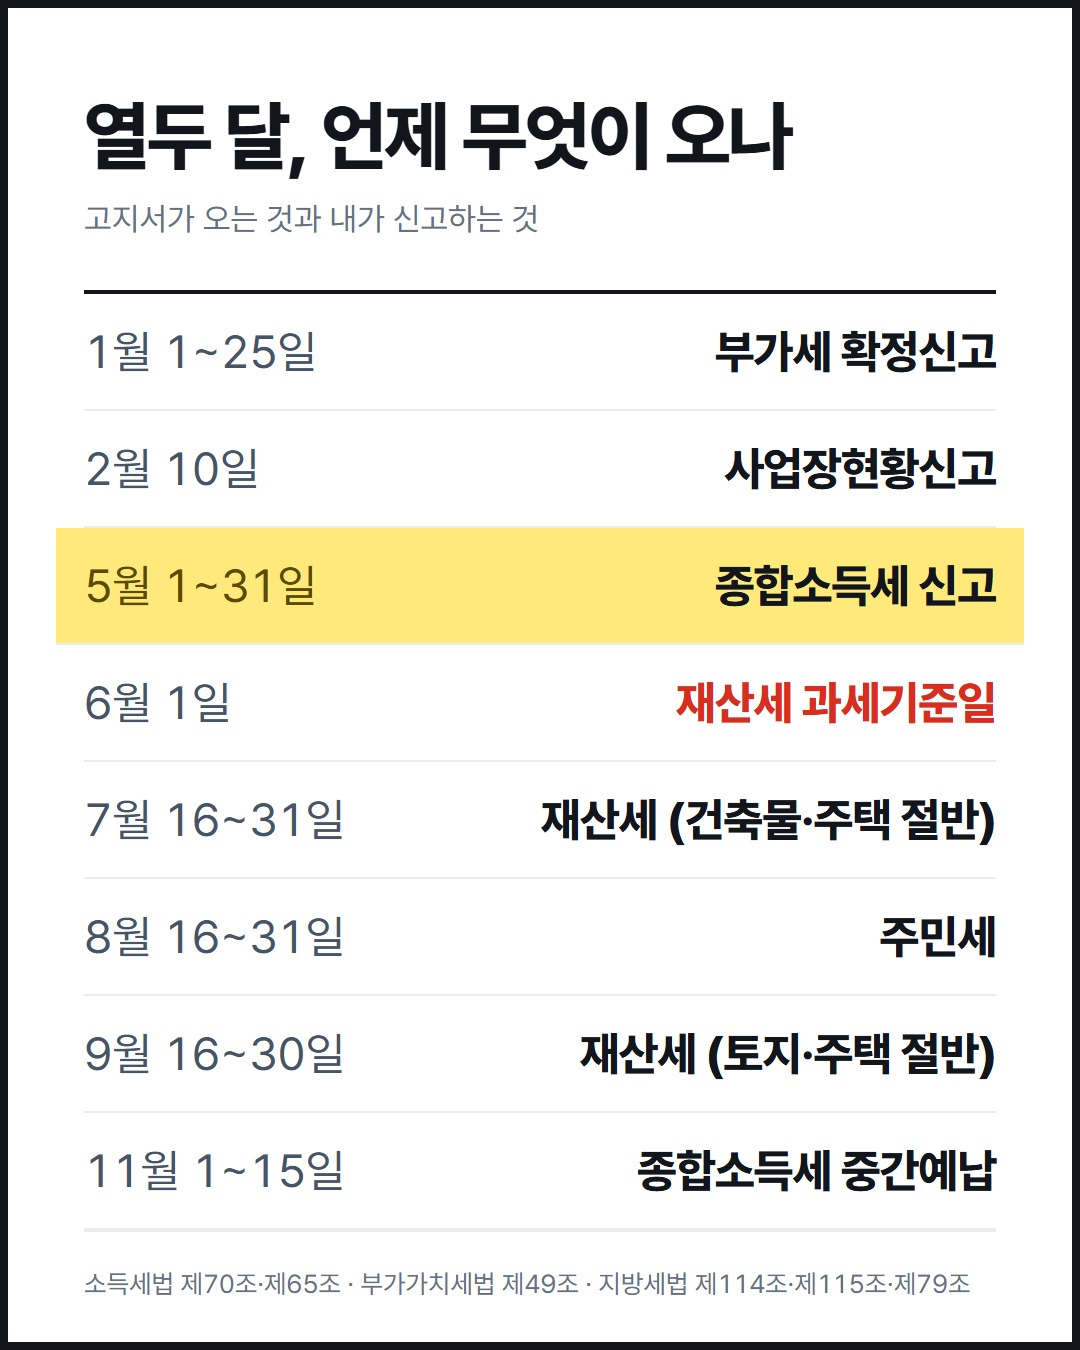
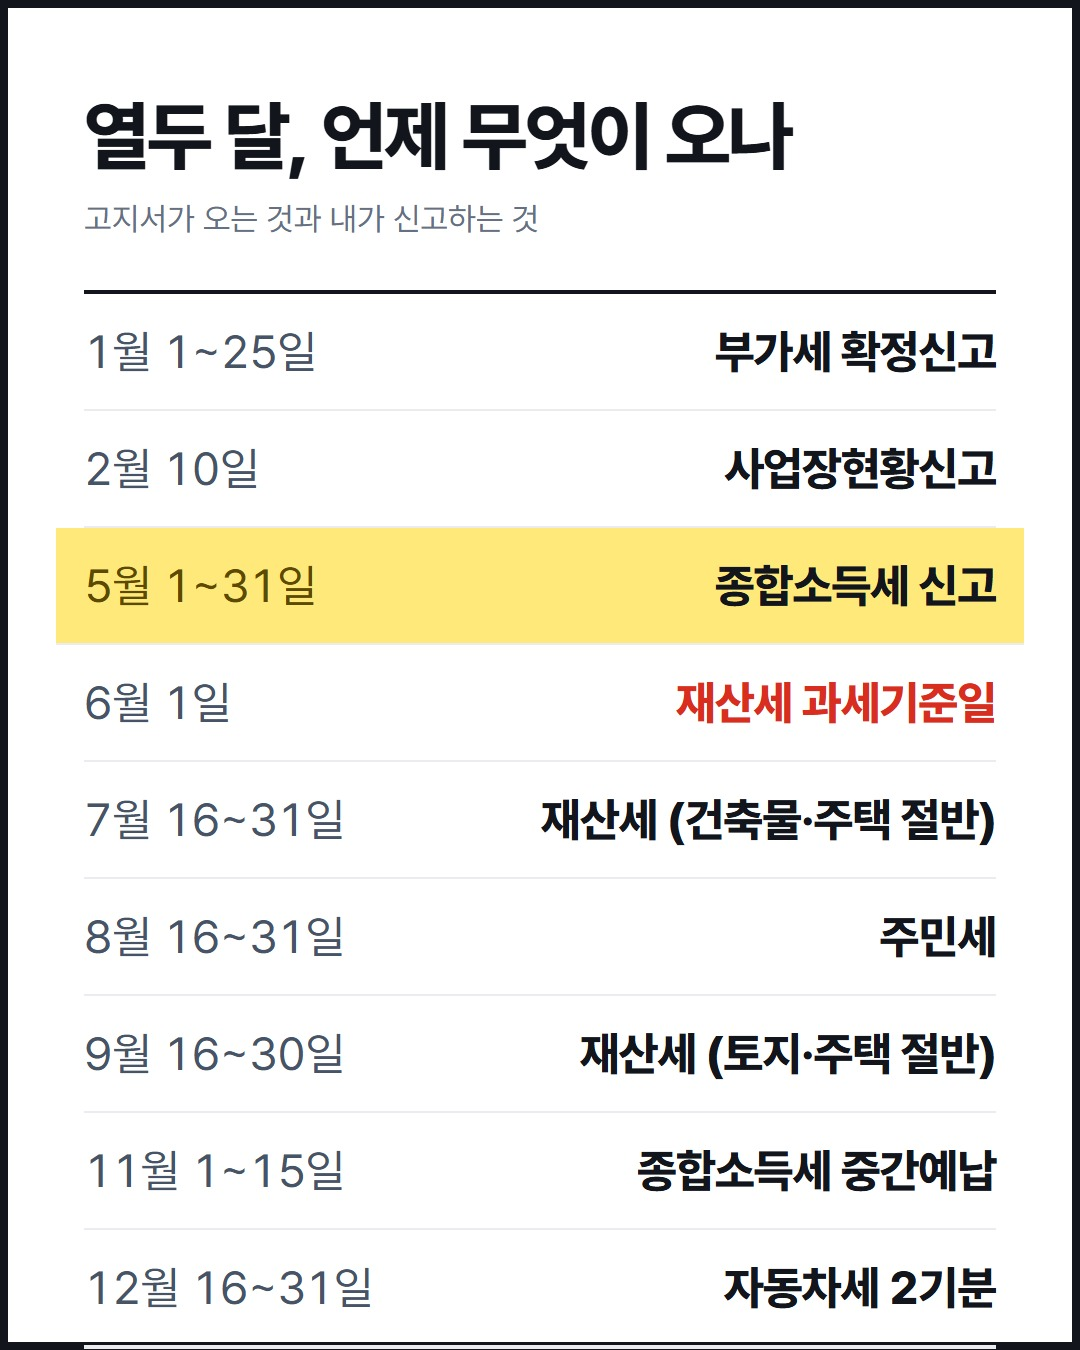
fix: 법령 표는 이미지의 alt 에 들어 있었다 — 자동차세·재산세 전부 확인
이 저장소가 계속 막혀 온 지점이 뚫렸다. 국가법령정보센터가 표를
이미지로 싣는 것은 맞는데, **img 의 alt 에 표 내용이 그대로 들어
있다.** 부가세 때 "표(이미지 alt)" 라고 적어 둔 적이 있으면서도
지방세에서는 못 읽는다고 판단했다.

다만 alt 만 모으면 어느 표가 어느 조문 것인지 알 수 없다. 세율표를
잘못 붙이는 것이 가장 비싼 실수라, DOM 을 훑어 각 img 앞의 가장
가까운 조문 제목을 붙여 확인한 뒤에만 옮겼다.

  제128조(납기와 징수방법)  제1기분 6/16~6/30 · 제2기분 12/16~12/31
  제111조(세율)             주택 · 종합합산토지 · 별도합산토지
  제111조의2                1세대 1주택 세율 특례

그래서 어제 비워 둔 자동차세 칸을 채웠다. 비워 둔 판단 자체는
옳았다 — 확인 못 한 것을 상식으로 채우지 않았고, 채운 근거는
상식이 아니라 원문이다.

테스트를 뒤집되 근거를 묶었다. 본납기 항목은 조문 표기에 "(표)" 가
있어야 통과한다. 상식으로 채운 값과 alt 에서 읽은 값을 코드가
구분하지 못하면 다음 사람이 똑같이 상식으로 채운다.

재산세 쪽도 함께 확인했다. 시행령 제109조는 텍스트라 그대로 읽힌다.
  공정시장가액비율  토지·건축물 70% · 주택 60%
                   2026년 1세대1주택 43% / 44% / 45%
  과세표준 상한    직전연도 × 105%          제110조 ③ · 시행령 109조의2
  세부담 상한      150% — 다만 주택은 제외   제122조 (2023 개정)

079 가 23:30 에 "원문에서 못 봤으면 적지 않는다" 로 이미 나갔다.
당시엔 사실이었다. 덮지 않고 080 으로 이어 쓴다 — 못 찾았다고
올린 표를 찾은 이야기다.

Changed region(s): [[0.0611, 0.9333, 0.9472, 1.0]]

diff --git a/src/lib/__tests__/tax-calendar.test.ts b/src/lib/__tests__/tax-calendar.test.ts
@@ -54,17 +54,29 @@ describe("달력 항목은 전부 근거를 가진다", () => {
 });
 
 describe("확인하지 못한 것은 달력에 없다", () => {
-  it("자동차세 본납기(6월·12월)를 넣지 않았다", () => {
-    // 제128조 제1항의 기분 표를 원문에서 읽지 못했다. 상식으로 채우면
-    // 이 저장소가 파는 것이 무너진다.
-    const vehicle = byDomain("vehicle");
-    for (const e of vehicle) expect(e.article).toContain("단서");
-    expect(vehicle.every((e) => e.month === 3 || e.month === 9)).toBe(true);
+  /*
+   * 처음에는 "자동차세 본납기를 넣지 않았다" 를 강제했다. 원문 표가
+   * 화면에 안 들어와 확인하지 못했기 때문이다. 같은 날 img 의 alt 에
+   * 표가 그대로 있는 것을 찾아 채웠으므로 이 테스트를 뒤집는다.
+   *
+   * 뒤집되 근거를 묶어 둔다 — 조문 표기에 "(표)" 가 있어야 한다.
+   * 상식으로 채운 값과 alt 에서 읽은 값을 코드가 구분하지 못하면
+   * 다음 사람이 똑같이 상식으로 채운다.
+   */
+  it("자동차세 본납기는 조문 표에서 왔다는 표시를 달고 있다", () => {
+    const main = byDomain("vehicle").filter((e) => e.month === 6 || e.month === 12);
+    expect(main).toHaveLength(2);
+    for (const e of main) expect(e.article, e.label).toContain("(표)");
   });
 
-  it("local-tax 가 확인 못 한 것을 스스로 적어 뒀다", () => {
+  it("분할납부는 여전히 단서 조문이다 — 신청한 사람만이라는 뜻", () => {
+    const split = byDomain("vehicle").filter((e) => e.month === 3 || e.month === 9);
+    for (const e of split) expect(e.article, e.label).toContain("단서");
+  });
+
+  it("local-tax 가 아직 확인 못 한 것을 스스로 적어 뒀다", () => {
     expect(local.vehicleTax.notVerified.length).toBeGreaterThan(0);
-    expect(local.vehicleTax.notVerified.join(" ")).toMatch(/본납기|기분/);
+    expect(local.vehicleTax.notVerified.join(" ")).toMatch(/연납|표준세율/);
   });
 
   it("주민세는 금액을 확정하지 않는다 — 조례 위임이다", () => {

diff --git a/src/data/tax-calendar.ts b/src/data/tax-calendar.ts
@@ -153,6 +153,17 @@ export const TAX_EVENTS: TaxEvent[] = [
   },
   {
     month: 6,
+    label: "자동차세 1기분",
+    from: "6월 16일",
+    to: "6월 30일",
+    domain: "vehicle",
+    who: "차가 있으면. 1~6월분이고 6월 1일 소유자에게 온다",
+    article: "지방세법 제128조 제1항 (표)",
+    source: "local-tax-2026.json",
+    kind: "고지",
+  },
+  {
+    month: 6,
     label: "성실신고확인대상자 종합소득세 신고",
     from: "5월 1일",
     to: "6월 30일",
@@ -260,6 +271,19 @@ export const TAX_EVENTS: TaxEvent[] = [
     article: "소득세법 제65조 제1항",
     source: "income-prepay-2026.json",
     href: "/guide/income-prepayment/",
+    kind: "고지",
+  },
+
+  // ── 12월 ───────────────────────────────────────────────
+  {
+    month: 12,
+    label: "자동차세 2기분",
+    from: "12월 16일",
+    to: "12월 31일",
+    domain: "vehicle",
+    who: "차가 있으면. 7~12월분이고 12월 1일 소유자에게 온다",
+    article: "지방세법 제128조 제1항 (표)",
+    source: "local-tax-2026.json",
     kind: "고지",
   },
 ];

diff --git a/src/data/cards.ts b/src/data/cards.ts
@@ -1143,8 +1143,9 @@ export const cardSets: CardSet[] = [
           { label: "8월 16~31일", value: "주민세" },
           { label: "9월 16~30일", value: "재산세 (토지·주택 절반)" },
           { label: "11월 1~15일", value: "종합소득세 중간예납" },
+          { label: "12월 16~31일", value: "자동차세 2기분" },
         ],
-        footnote: "소득세법 제70조·제65조 · 부가가치세법 제49조 · 지방세법 제114조·제115조·제79조",
+        footnote: "소득세법 제70조·제65조 · 부가가치세법 제49조 · 지방세법 제114조·제115조·제79조·제128조",
       },
       {
         kind: "table",
@@ -1155,6 +1156,7 @@ export const cardSets: CardSet[] = [
           { label: "주소지가 있으면", value: "7월 · 8월" },
           { label: "3.3% 떼이거나 사업소득", value: "5월 · 11월", tone: "mark" },
           { label: "사업자등록이 있으면", value: "1·2·4·6·7·10월" },
+          { label: "차가 있으면", value: "6월 · 12월" },
         ],
         footnote: "jupocket.com/guide/tax-year/ 에 달마다 정리했습니다",
       },

diff --git a/social/queue/080-found-the-table.md b/social/queue/080-found-the-table.md
@@ -1,0 +1,16 @@
+---
+at: "22:30"
+ref: /guide/tax-year/
+ref_no: 34
+reply: 자동차세 1기분은 6월 16~30일, 2기분은 12월 16~31일입니다. 달력에 채웠습니다.
+---
+어제 "이 표는 못 봤다"고 적었다.
+
+자동차세 납기가 적힌 표가
+법령 사이트에 이미지로만 있었다.
+그래서 그 칸을 비워 둔 채 올렸다.
+
+밤에 다시 열어 보니
+이미지에 대체 텍스트가 붙어 있었다.
+
+6월 16~30일, 12월 16~31일.
